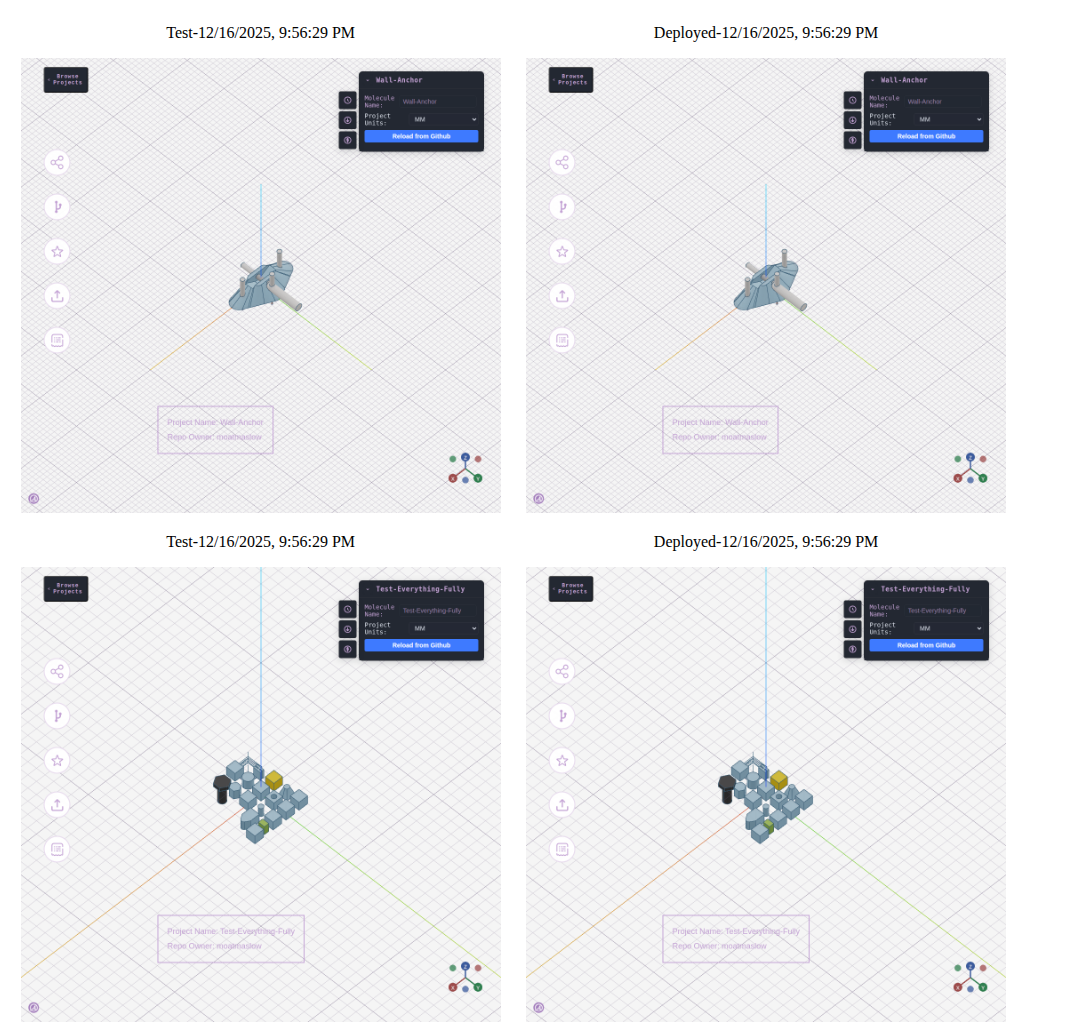
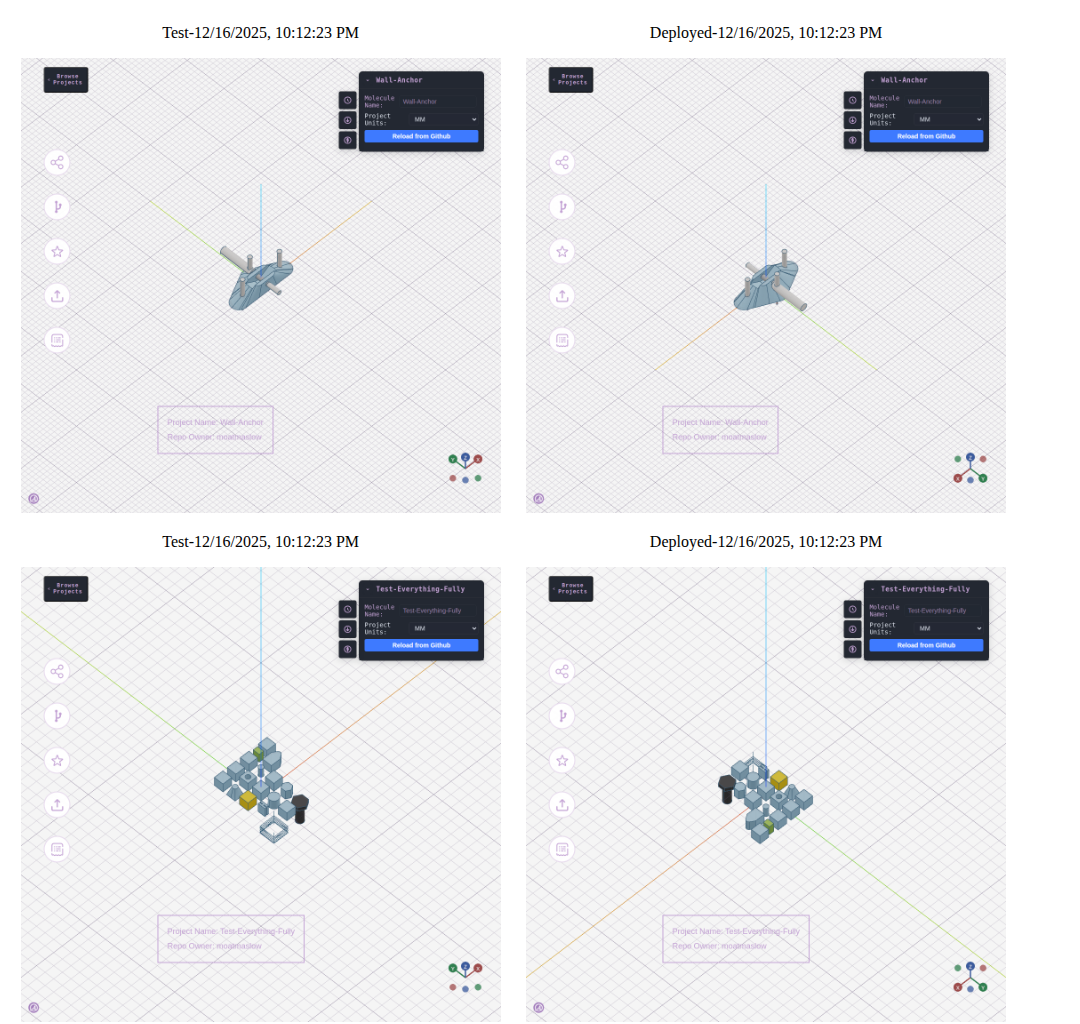
Rotate initial camera position 180° around Z-axis for correct view orientation

diff --git a/src/components/render/ReplicadMesh.jsx b/src/components/render/ReplicadMesh.jsx
@@ -169,7 +169,7 @@ export default React.memo(
 
       // 2. Setup camera with dynamic positioning
       const camera = new PerspectiveCamera(25, width / height, 0.1, 10000);
-      camera.position.set(3000, 3000, 3000);
+      camera.position.set(-3000, -3000, 3000);
 
       // Apply calculated zoom
       camera.zoom = zoomFromBounds;

diff --git a/src/components/render/ThreeContext.jsx b/src/components/render/ThreeContext.jsx
@@ -74,7 +74,7 @@ export default function ext({ children, cameraZoom, ...otherProps }) {
           pov={1000}
           far={90000}
           zoom={cameraZoom}
-          position={[3000, 3000, 5000]}
+          position={[-3000, -3000, 5000]}
         />
         {gridParam ? (
           <Grid
